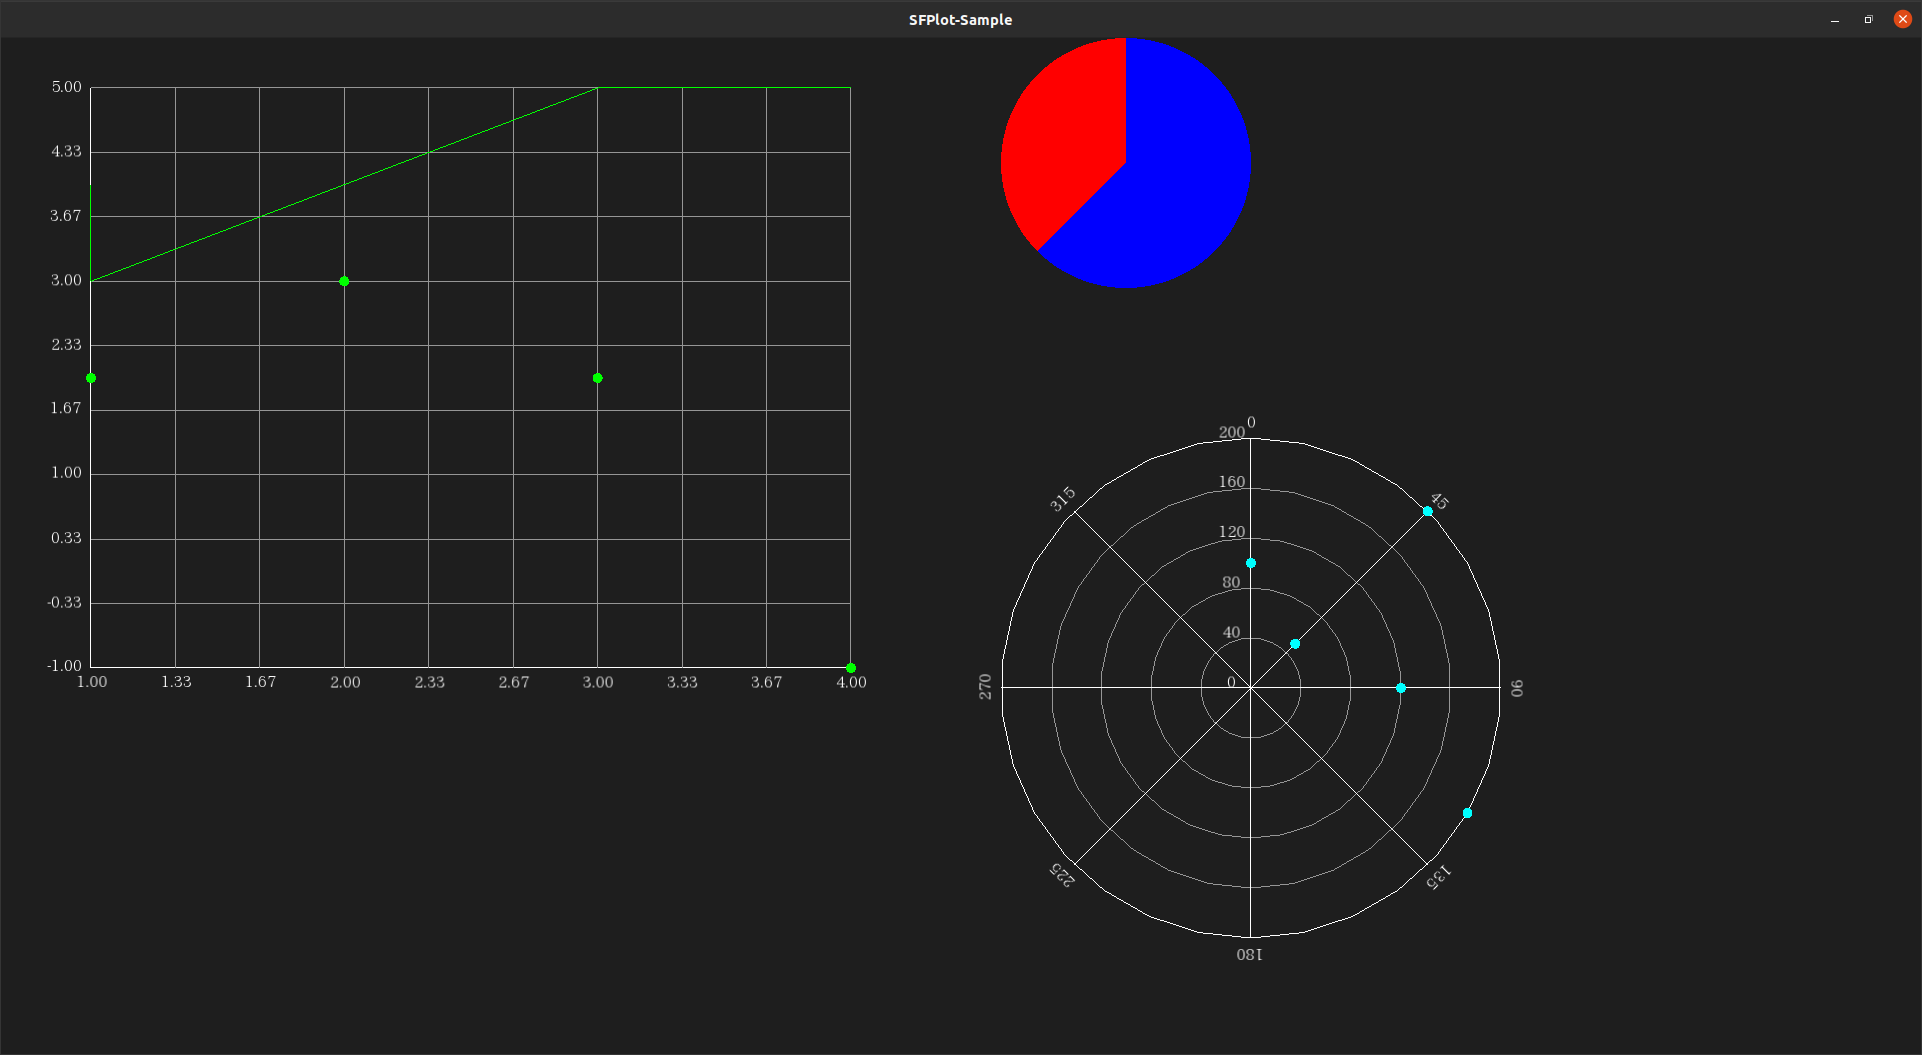
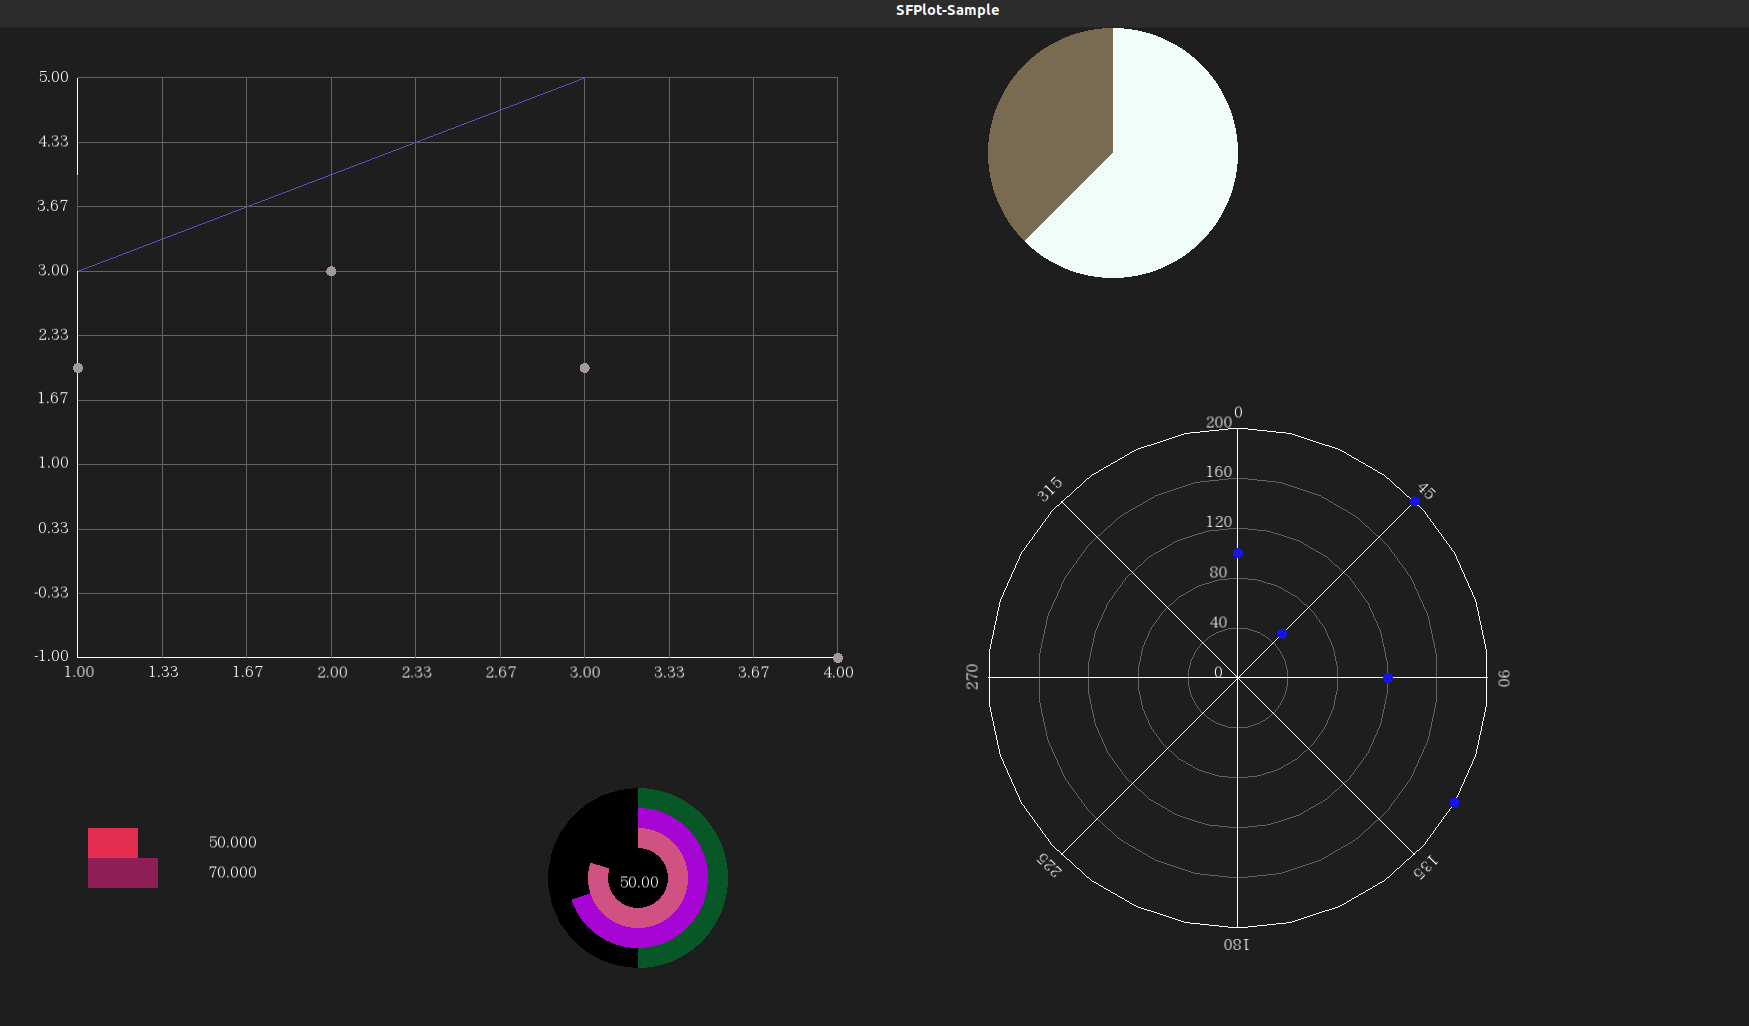
[update] update README.md

diff --git a/README.md b/README.md
@@ -15,10 +15,62 @@ SFPlot supports
 1. Cartesian Chart (2D X-Y Chart)
 2. Pie Chart
 3. Rader Chart
+4. Bar Chart
+5. Circle Bar Chart
+
+# Building SFPlot
+Execute commands below in the top directory of SFPlot.
+
+```
+cmake .
+make
+```
+
+If you want to enable sample program add `-DENABLE_SAMPLE=ON` argument to `cmake` command.
+
+```
+cmake -DENABLE_SMAPLE=ON .
+make
+```
+
+# How to Use
+First of all you have to set up default configurations for SFPlot.
+
+```c++
+    sf::plot_config.font = font;
+    sf::plot_config.font_color = sf::Color::White;
+    sf::plot_config.axes_color = sf::Color::White;
+    sf::plot_config.scale_color = sf::Color(100.f, 100.f, 100.f);
+```
+
+Then declare chart
+
+```c++
+    sf::CartesianChart chart; // Catesian X-Y Chart
+```
+
+Needless to say, you have to add data set to each chart before drawing to show data.
+
+```c++
+    auto data1 = chart.addData();
+    data1->data = {{0.f, 100.f}, {45.f, 200.f}, {45.f, 50.f}, {120.f, 200.f}, {90.f, 120.f}};
+```
+
+Each Chart class is derived from `sf::Drawable`.
+Therefore, you can draw charts on screen in conventional way in SFML.
+
+```c++
+window.draw(chart);
+window.display();
+```
+
+A working example is located in **sample/main.cpp**.
+Please check it for the comprehensive example.
 
 # Requirement
 * SFML library
 * C++ compiler which supports C++17
+* CMake
 
 # License
 MIT License. Please refer **LICENSE** file for the detail.
